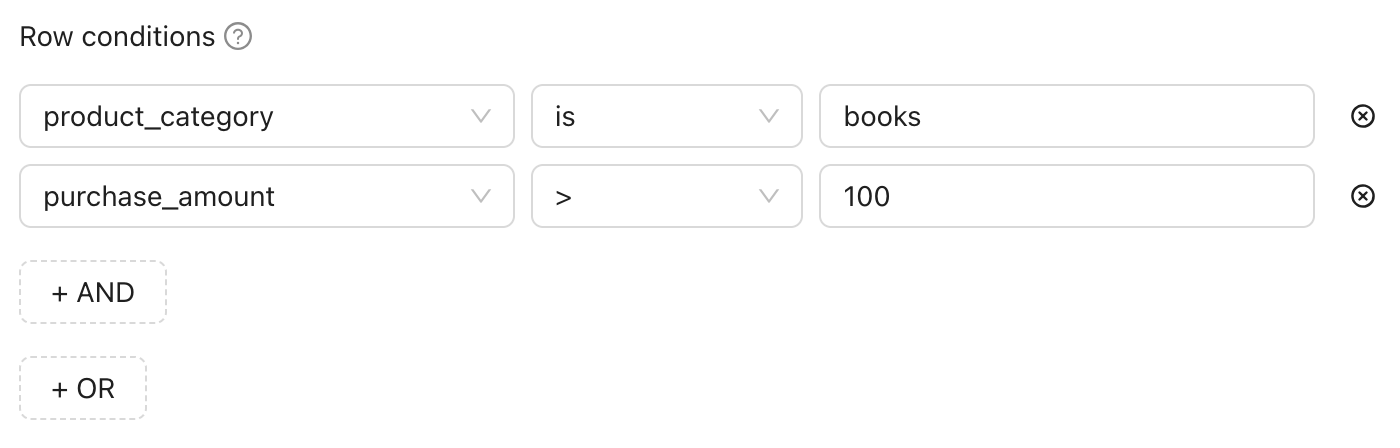
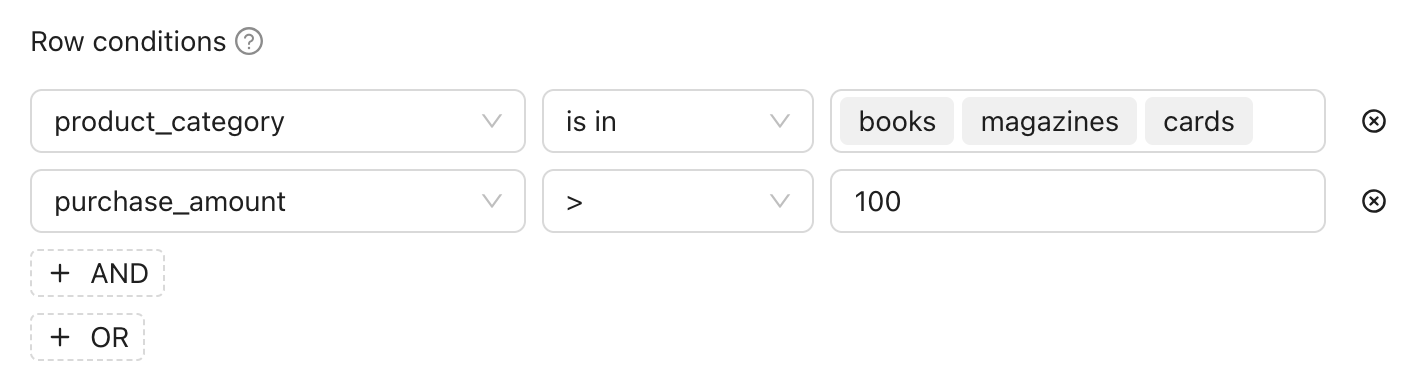
[DOCS] row conditions screenshots (#11509)

diff --git a/docs/docusaurus/docs/cloud/expectations/expectations_overview.md b/docs/docusaurus/docs/cloud/expectations/expectations_overview.md
@@ -148,7 +148,7 @@ Here are some examples of how to express complex row conditions:
 
 - **A and B**: Two condition statements within a single condition block.
 
-   ![product_category is books and purchase_amount is greater than 100](/img/a_and_b.png)
+   ![product_category is in books, magazines, cards and purchase_amount is greater than 100](/img/a_and_b.png)
 
 - **A or B**: Two condition statements, each in its own condition block.
 
